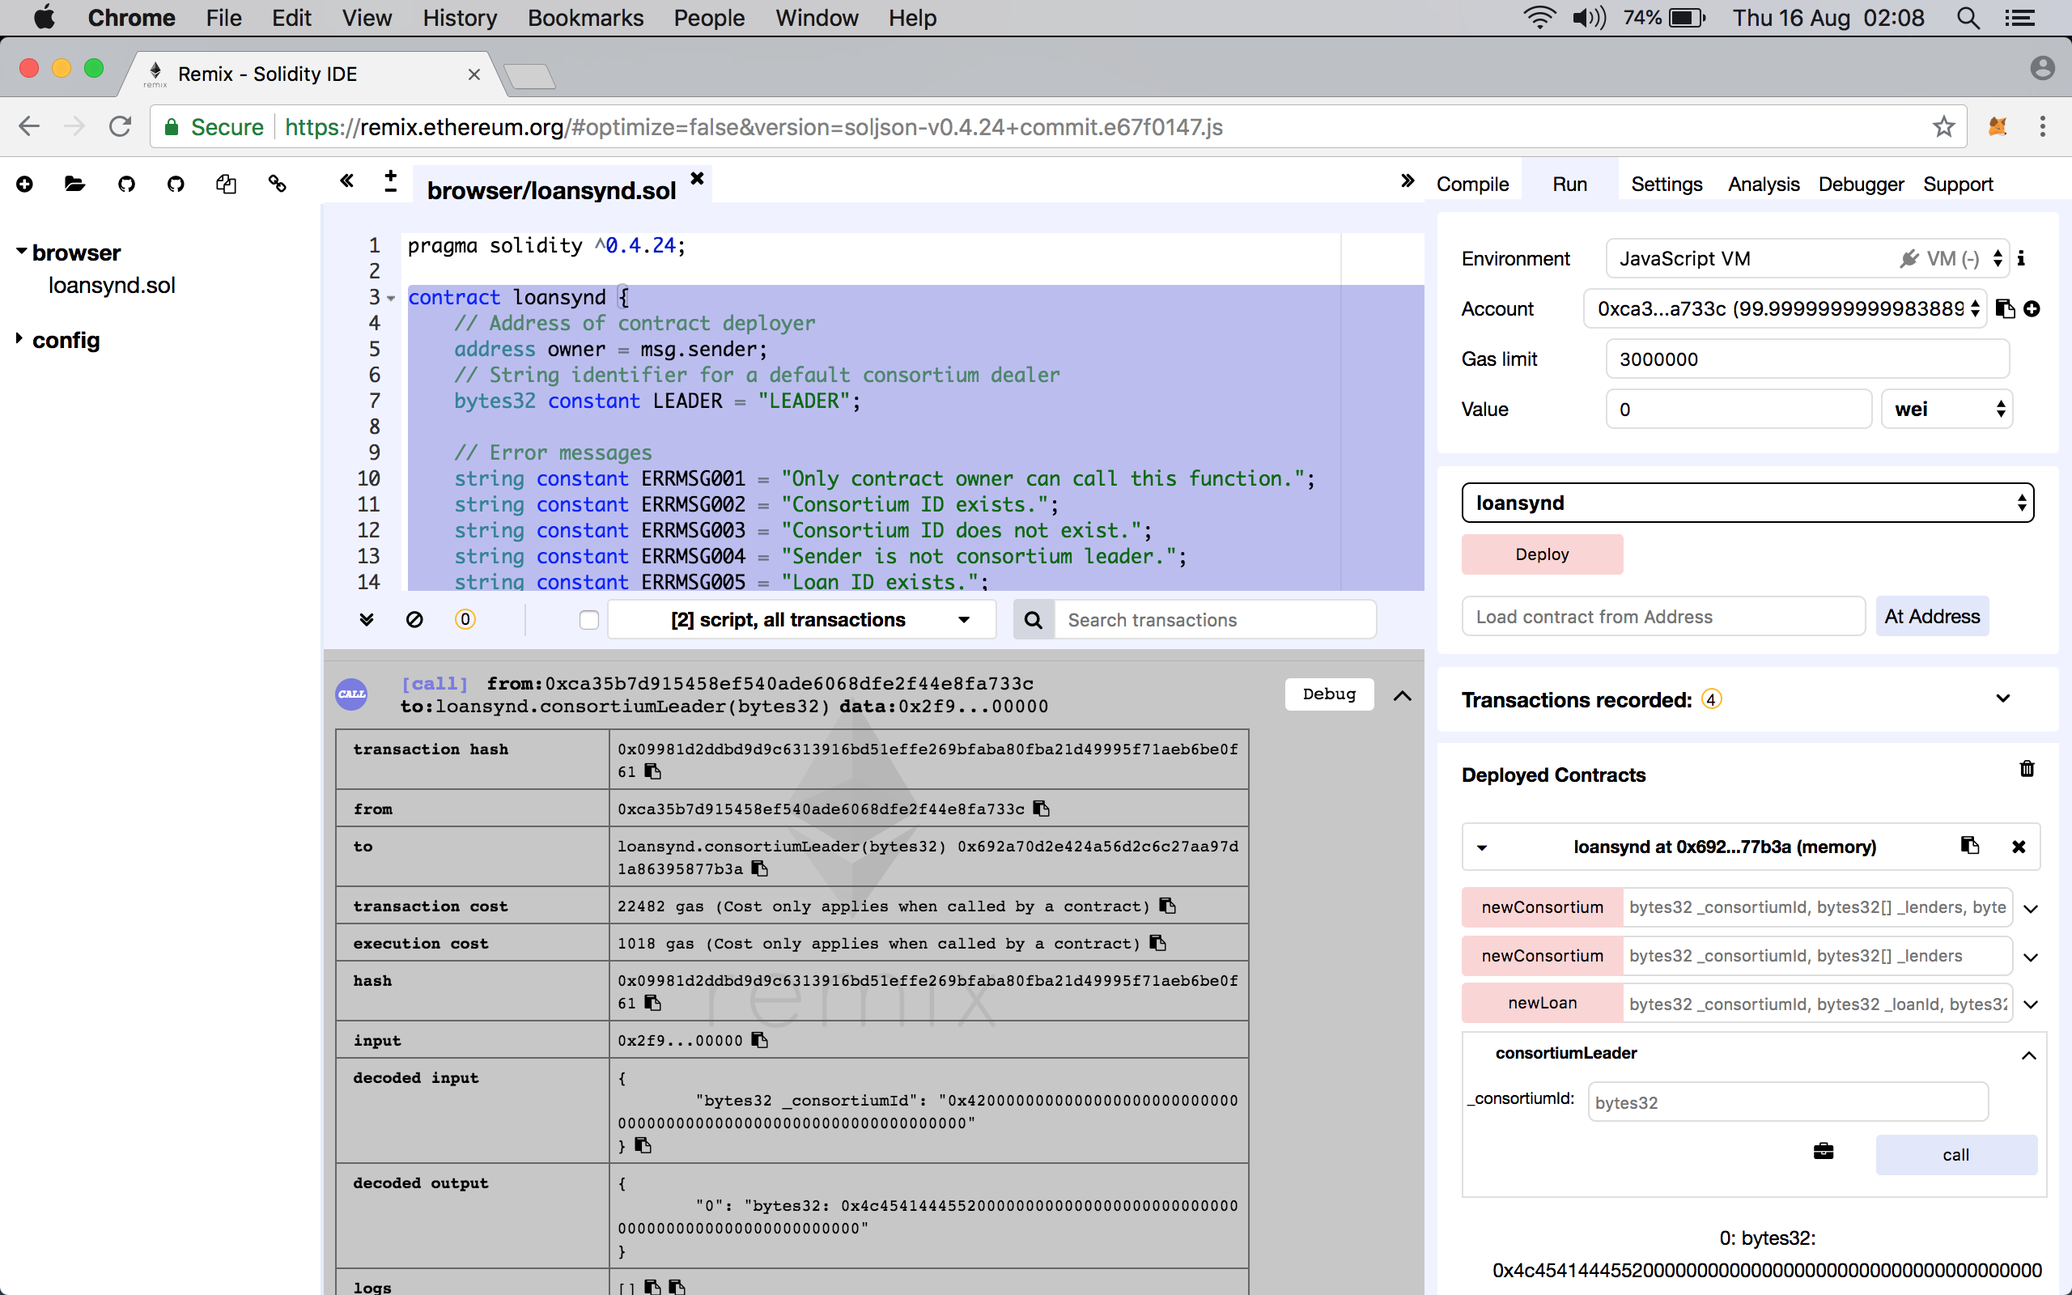
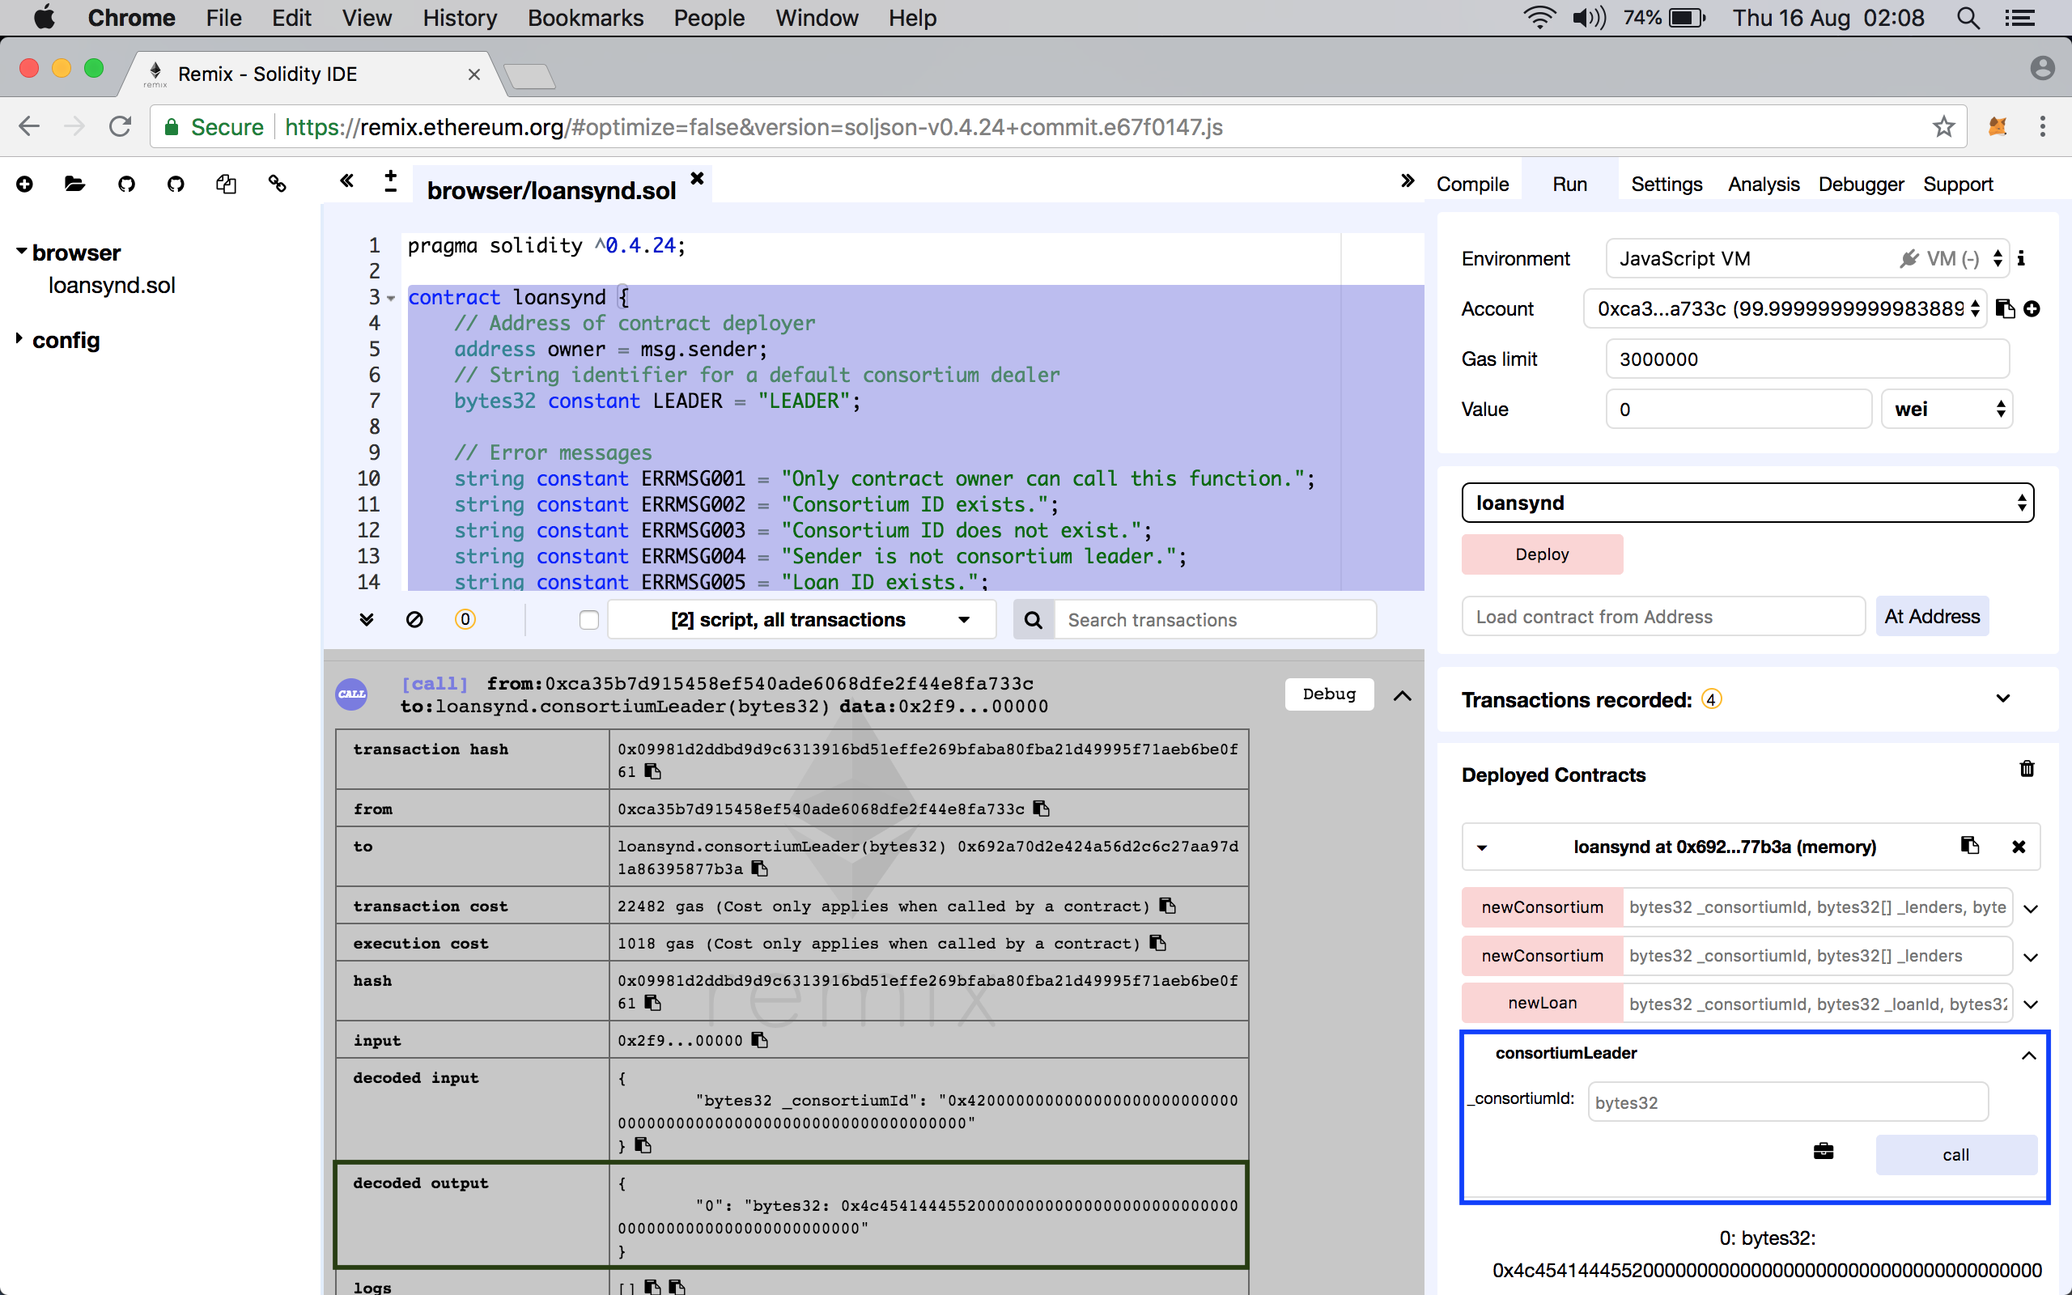
Commit

diff --git a/README.md b/README.md
@@ -17,6 +17,7 @@ A simple PoC for loan syndication. The scope of this PoC is defined as:
     - [Test contract - consortium leader](#test-contract---consortium-leader)
     - [Test contract - new loan](#test-contract---new-loan)
     - [Test contract - new loan, same collateral](#test-contract---new-loan-same-collateral)
+  - [Smart Contract and infra-structure demo](#smart-contract-and-infra-structure-demo)
 
 ## Background
 
@@ -24,7 +25,7 @@ Loan syndication is defined at [Investopedia](https://www.investopedia.com/terms
 
 >Loan syndication is the process of involving a group of lenders to fund various portions of a loan for a single borrower. Loan syndication most often occurs when a borrower requires an amount too large for a single lender to provide or when the loan is outside the scope of a lender's risk exposure levels. Thus, multiple lenders form a syndicate to provide the borrower with the requested capital.
 
-In this PoC, we show how, a given collateral is not pledged multiple times within a consortium of lenders or even across consortia. To jump into the demo, go to **Getting Started**.
+In this PoC, we show how, a given collateral is not pledged multiple times within a consortium of lenders or even across consortia. To jump into the demo, go to **Solution**.
 
 ## Decentralized consensus
 
@@ -46,95 +47,14 @@ Therefore, we re-write the scope of PoC in terms of decentralized consensus as f
 
 - Parties: banks of a consortium and loan applicant.
 - Parameter of interest: collateral identifier.
-- Value of parameter of interest: collateral pledged for a loan in the past.
+- Value of parameter of interest: status of collateral - pledged or not - for a loan in the past.
 - Consensus: Proof of Authority consensus.
 
 ## Solution
 
-As follows.
+There are two ways to see this PoC in action.
 
-## Getting started
+1. ![Quick start](doc/quickstart.md) - a simple demonstration of the Smart Contract without focussing much on underlying infra-structure.
+2. ![AWS infra-structure](doc/awsinfra.md) - an underlying infra-structure on Amazon Web Services (AWS), on to which the Smart Contract is deployed, is described.
 
-There are two ways to see this PoC in action. First, is a simple demonstration of the Smart Contract without focussing much on underlying infra-structure. Second, an underlying infra-structure on Amazon Web Services (AWS), on to which the Smart Contract is deployed, is described.
-
-> **NOTE**, it is a good practice to save only identifiers or references to actual data on the blockchain. On one hand, this makes the blockchain _light weight_ and on the other, a certain level of privacy is maintained. Therefore, this demo saves the identifiers _only_ on the blockchain. The mechanism to generate and derefernce the identifiers is considered **out of scope**.
-
-## Smart Contract demo
-
-### Deploy contract
-
-For the Smart Contract demo, follow the steps below.
-
-1. Launch https://remix.ethereum.org in a browser.
-2. Remove the default `.sol` contract that appears.  
-  2.1 On the left hand navigation pane, expand the button for browser.  
-  2.2 Delete files appearing there. See ![Delete existing files](png/remix-ide.png)
-3. Click the plus icon on the top of left hand navigation pane.
-4. Enter file name as `loansynd.sol` and click OK. ![New contract](png/new-contract.png)
-5. Copy all the contents of `loandsynd.sol` from this project into the editor. ![Contract code in Remix IDE](png/new-contract-code.png)
-6. Click on **Start to Compile**. (See ![Start to Compile](png/start-compile.png)). You may see some compilation warnings; they are OK to ignore for this demo.
-7. Click on **Run** tab. Ensure that the **Environment** is set to **Javascript VM**. This option helps in quickly testing the contract without focussing on the underlying infra-structure. ![Environment setting](png/run-environment.png)
-8. Click on **Deploy** button to deploy this contract. ![Deploy contract](png/deploy.png)
-9. The results of deployment can be seen in screen-shot below. ![Deployment results](png/deployment-results.png)   
-  9.1 Since the deployment of the contract is itself a transaction that changes the _world state_ of Ethereum, it has a corresponding a transaction hash as shown in the red box.  
-  9.2 Since this transaction is a deployment of a contract, the Remix IDE shows the address where this contract was deployed. This is highlighted in the blue box. Note the trailing two hex digits; they are the same as shown in the blue box on the right hand side navigation pane.  
-  9.3 The functions of this contract are shown immediately below it as marked in the orange box.  
-  9.4 The same contract and its functions can be displayed by copy-pasting the contract address (see 9.2) into the text field left of **At Address** button and clicking the same.  
-  9.5 The address used to deploy this contract is marked in the green boxes. This address is automatically generated and credited with 100 ETH by the Javascript VM for sake of convenience.
-
-### Gas calculation
-
-In the results of deployment, the following can be seen:
-
-1. Gas sent is `3000000`.
-2. The transaction cost - as reported in Remix IDE - is `1205713`.
-3. The execution cost is `888769`.
-4. The transaction cost - as reported in Remix IDE - is inclusive of the execution cost. Therefore, the _actual_ transaction cost is the difference of 2 and 3 above; or, `316944`.
-
-This section explores the figures as reported above.
-
-1. The gas sent is simply the figure that appears immediately below the **Account** field in the right hand side navigation pane.
-2. The Appendix for fee schedule in the [Ethereum Yellow Paper](https://ethereum.github.io/yellowpaper/paper.pdf) mentions `200` gas for every byte for `Gcodedeposit` operation. This operation is used for contract creation.
-3. On the **Compile** tab, click on **Details** button to see the result of compilation. Scroll down all the way to **Runtime bytecode**. Refer ![Runtime bytecode](png/runtime-bytecode.png).
-4. Click on the icon to copy the displayed JSON and paste into a plain text file. From that file, copy the value of the `object` field and paste into yet another plain text file and save it. Check the number of bytes reported and divide by two for the number of bytes in contract creation. It should be `4338`.
-5. Multiply the byte count with gas price for contract creation: `4338 * 200 = 867600` to return code deposit cost.
-6. In the compilation output details page, there is a section for **Assembly** that shows the operation codes correspoding to this Solidity code. This [handy spreadsheet](https://docs.google.com/spreadsheets/d/1n6mRqkBz3iWcOlRem_mO09GtSKEKrAsfO7Frgx18pNU/edit#gid=0) can be used for calculating the execution cost.
-7. A simpler way is to look at the **GASESTIMATES** section in the compiler output (see 3 to locate this output) as shown in the ![gas estimates screenshot](png/gas-estimates.png). In that section, we see the value of `executionCost` as `21169`. Adding to this the code deposit cost (see 5) of `867600`, the total execution cost of `888769` is arrived at.
-8. Further, the following prices also apply:  
-  8.1. A fee of `32000` for `Gtxcreate` which is a contract creating transaction.  
-  8.2. A fee of `4` for `Gtxdatazero` for every zero byte of data or code for a transaction.  
-  8.3. A fee of `68` for `Gtxdatanonzero` for every non-zero byte of data or code for a transaction.  
-  8.4. A fee of `21000` for `Gtransaction` for every transaction.
-9. It is tedious to count the number of zero and non-zero bytes in the runtime byte code of `4338` bytes (see 4). Nevertheless, some back calculation can probably help verify.  
-  9.1. If `x` is number of zero bytes and `y` the number of non-zero bytes, then `x + y = 4338` and `4x + 68y = 316944 - 32000 - 21000`.  
-  9.2 Solving these equations, `x=485` and `y=3853` - reasonable.
-10. Finally, post contract deployment, the balance of the address is the difference between `100` ETH (initial) and total transaction cost `1205713 wei`.
-
-### Test contract - new consortium
-
-A new consortium of banks is recorded on the blockchain. In loan syndication, there is a lead banker within a consortium. This Smart Contract provides two options for defining the leader of a consortium. First, the leader is automatically set to the contract deployer _if_ the address creating the consortium is same as that of deployer. Second, the leader maybe manually provided. For sake of simplicity, this document uses the first option.
-
-> The input type is set to `bytes32` so that all entries are prefixed with a `0x` and padded with zeroes for 32 bytes.
-
-1. Refer screen-shot ![New consortium](png/new-consortium-a.png)
-2. Click on down arrow against the function `newConsortium` whose signature has two arguments only.
[2 lines of base64/hex data omitted]
-5. Note that, this function will assign the leader of consortium as the address that deployed this contract. So, in all, four lenders will be part of the consortium.
-6. Click on **Transact**.
-
-### Test contract - consortium members
-
-1. Refer ![Members of consortium](png/consortium-members.png)
-
-### Test contract - consortium leader
-
-1. Refer ![Consortium leader](png/consortium-leader.png)
-
-### Test contract - new loan
-
-1. Refer ![New loan](png/new-loan.png)
-
-### Test contract - new loan, same collateral
-
-1. Refer ![New loan reapply](png/new-loan-reapply.png)
+> **NOTE**, it is a good practice to save only identifiers or references to actual data on the blockchain. On one hand, this makes the blockchain _light weight_ and on the other, a certain level of privacy is maintained. Therefore, this demo saves the identifiers _only_ on the blockchain. The mechanism to generate and derefernce the identifiers is considered **out of scope**. Similarly, it is assumed that, all participants have agreed to common identifiers of loans, collaterals, consortia or others.

diff --git a/doc/quickstart.md b/doc/quickstart.md
@@ -1,0 +1,104 @@
+# Quick start
+
+This is ...
+
+## Smart Contract demo
+
+### Deploy contract
+
+For the Smart Contract demo, follow the steps below.
+
+1. Launch https://remix.ethereum.org in a browser.
+2. Remove the default `.sol` contract that appears.  
+  2.1 On the left hand navigation pane, expand the button for browser.  
+  2.2 Delete files appearing there. See ![Delete existing files](../png/remix-ide.png)
+3. Click the plus icon on the top of left hand navigation pane.
+4. Enter file name as `loansynd.sol` and click OK. ![New contract](../png/new-contract.png)
+5. Copy all the contents of `loandsynd.sol` from this project into the editor. ![Contract code in Remix IDE](../png/new-contract-code.png)
+6. Click on **Start to Compile**. (See ![Start to Compile](../png/start-compile.png)). You may see some compilation warnings; they are OK to ignore for this demo.
+7. Click on **Run** tab. Ensure that the **Environment** is set to **Javascript VM**. This option helps in quickly testing the contract without focussing on the underlying infra-structure. ![Environment setting](../png/run-environment.png)
+8. Click on **Deploy** button to deploy this contract. ![Deploy contract](../png/deploy.png)
+9. The results of deployment can be seen in screen-shot below. ![Deployment results](../png/deployment-results.png)   
+  9.1 Since the deployment of the contract is itself a transaction that changes the _world state_ of Ethereum, it has a corresponding a transaction hash as shown in the red box.  
+  9.2 Since this transaction is a deployment of a contract, the Remix IDE shows the address where this contract was deployed. This is highlighted in the blue box. Note the trailing two hex digits; they are the same as shown in the blue box on the right hand side navigation pane.  
+  9.3 The functions of this contract are shown immediately below it as marked in the orange box.  
+  9.4 The same contract and its functions can be displayed by copy-pasting the contract address (see 9.2) into the text field left of **At Address** button and clicking the same.  
+  9.5 The address used to deploy this contract is marked in the green boxes. This address is automatically generated and credited with 100 ETH by the Javascript VM for sake of convenience.
+
+### Gas calculation
+
+In the results of deployment, the following can be seen:
+
+1. Gas sent is `3000000`.
+2. The transaction cost - as reported in Remix IDE - is `1205713`.
+3. The execution cost is `888769`.
+4. The transaction cost - as reported in Remix IDE - is inclusive of the execution cost. Therefore, the _actual_ transaction cost is the difference of 2 and 3 above; or, `316944`.
+
+This section explores the figures as reported above.
+
+1. The gas sent is simply the figure that appears immediately below the **Account** field in the right hand side navigation pane.
+2. The Appendix for fee schedule in the [Ethereum Yellow Paper](https://ethereum.github.io/yellowpaper/paper.pdf) mentions `200` gas for every byte for `Gcodedeposit` operation. This operation is used for contract creation.
+3. On the **Compile** tab, click on **Details** button to see the result of compilation. Scroll down all the way to **Runtime bytecode**. Refer ![Runtime bytecode](../png/runtime-bytecode.png).
+4. Click on the icon to copy the displayed JSON and paste into a plain text file. From that file, copy the value of the `object` field and paste into yet another plain text file and save it. Check the number of bytes reported and divide by two for the number of bytes in contract creation. It should be `4338`.
+5. Multiply the byte count with gas price for contract creation: `4338 * 200 = 867600` to return code deposit cost.
+6. In the compilation output details page, there is a section for **Assembly** that shows the operation codes correspoding to this Solidity code. This [handy spreadsheet](https://docs.google.com/spreadsheets/d/1n6mRqkBz3iWcOlRem_mO09GtSKEKrAsfO7Frgx18pNU/edit#gid=0) can be used for calculating the execution cost.
+7. A simpler way is to look at the **GASESTIMATES** section in the compiler output (see 3 to locate this output) as shown in the ![gas estimates screenshot](../png/gas-estimates.png). In that section, we see the value of `executionCost` as `21169`. Adding to this the code deposit cost (see 5) of `867600`, the total execution cost of `888769` is arrived at.
+8. Further, the following prices also apply:  
+  8.1. A fee of `32000` for `Gtxcreate` which is a contract creating transaction.  
+  8.2. A fee of `4` for `Gtxdatazero` for every zero byte of data or code for a transaction.  
+  8.3. A fee of `68` for `Gtxdatanonzero` for every non-zero byte of data or code for a transaction.  
+  8.4. A fee of `21000` for `Gtransaction` for every transaction.
+9. It is tedious to count the number of zero and non-zero bytes in the runtime byte code of `4338` bytes (see 4). Nevertheless, some back calculation can probably help verify.  
+  9.1. If `x` is number of zero bytes and `y` the number of non-zero bytes, then `x + y = 4338` and `4x + 68y = 316944 - 32000 - 21000`.  
+  9.2 Solving these equations, `x=485` and `y=3853` - reasonable.
+10. Finally, post contract deployment, the balance of the address is the difference between `100` ETH (initial) and total transaction cost `1205713 wei`.
+
+### Test contract - new consortium
+
+A new consortium of banks is recorded on the blockchain. In loan syndication, there is a lead banker within a consortium. This Smart Contract provides two options for defining the leader of a consortium. First, the leader is automatically set to the contract deployer _if_ the address creating the consortium is same as that of deployer. Second, the leader maybe manually provided. For sake of simplicity, this document uses the first option.
+
+> The input type is set to `bytes32` so that all entries are prefixed with a `0x` and padded with zeroes for 32 bytes.
+
+1. Refer screen-shot ![New consortium](../png/new-consortium-a.png)
+2. Click on down arrow against the function `newConsortium` whose signature has two arguments only.
[2 lines of base64/hex data omitted]
+5. Note that, this function will assign the leader of consortium as the address that deployed this contract. So, in all, four lenders will be part of the consortium.
+6. Click on **Transact**.
+
+### Test contract - consortium members
+
+1. Refer ![Members of consortium](../png/consortium-members.png)
[1 lines of base64/hex data omitted]
+3. The result is seen in the blue box in the output area.
+4. The decoded output shows a `bytes32` array of all the lenders that are part of this consortium.
+5. Further, note the dark green color box. It shows the leader of this consortium - `0x4c4541444552` is ASCII for `LEADER` as mentioned in the contract.
+
+### Test contract - consortium leader
+
+1. Refer ![Consortium leader](../png/consortium-leader.png)
[1 lines of base64/hex data omitted]
+3. The result is seen in the dark green box in the output area.
+4. The decoded output shows a `bytes32` string for the consortium leader - `0x4c4541444552` is ASCII for `LEADER` as mentioned in the contract.
+5. Notice how it matches with the output as seen in previous section.
+
+### Test contract - new loan
+
+1. Refer ![New loan](../png/new-loan.png)
+2. To apply for a new loan against a collateral, enter arguments for the function `newLoan` as follows. Refer blue color box in the image.
[4 lines of base64/hex data omitted]
+3. Click on **Transact** to initiate the contract execution. The result of execution is not shown in the screen-shot.
+
+### Test contract - new loan, same collateral
+
+1. Refer ![New loan reapply](../png/new-loan-reapply.png)
+2. To apply for yet another loan, we follow same steps as above except:
[2 lines of base64/hex data omitted]
+3. Click on **Transact** to initiate the contract execution.
+4. As shown in the red box, we see that the contract execution failed with a message as `Collateral ID already pledged`.
+
+It is worth noting that, at the end of previous step all participants in the network would have a copy of the ledger that would store the mapping of collateral and loans. While the ledger does not _easily_ lend itself for investigation, a participant can also query its local copy to know if a collateral ID is part of a loan, etc.

diff --git a/doc/awsinfra.md b/doc/awsinfra.md
@@ -1,0 +1,3 @@
+# AWS infra-structure
+
+This ...
